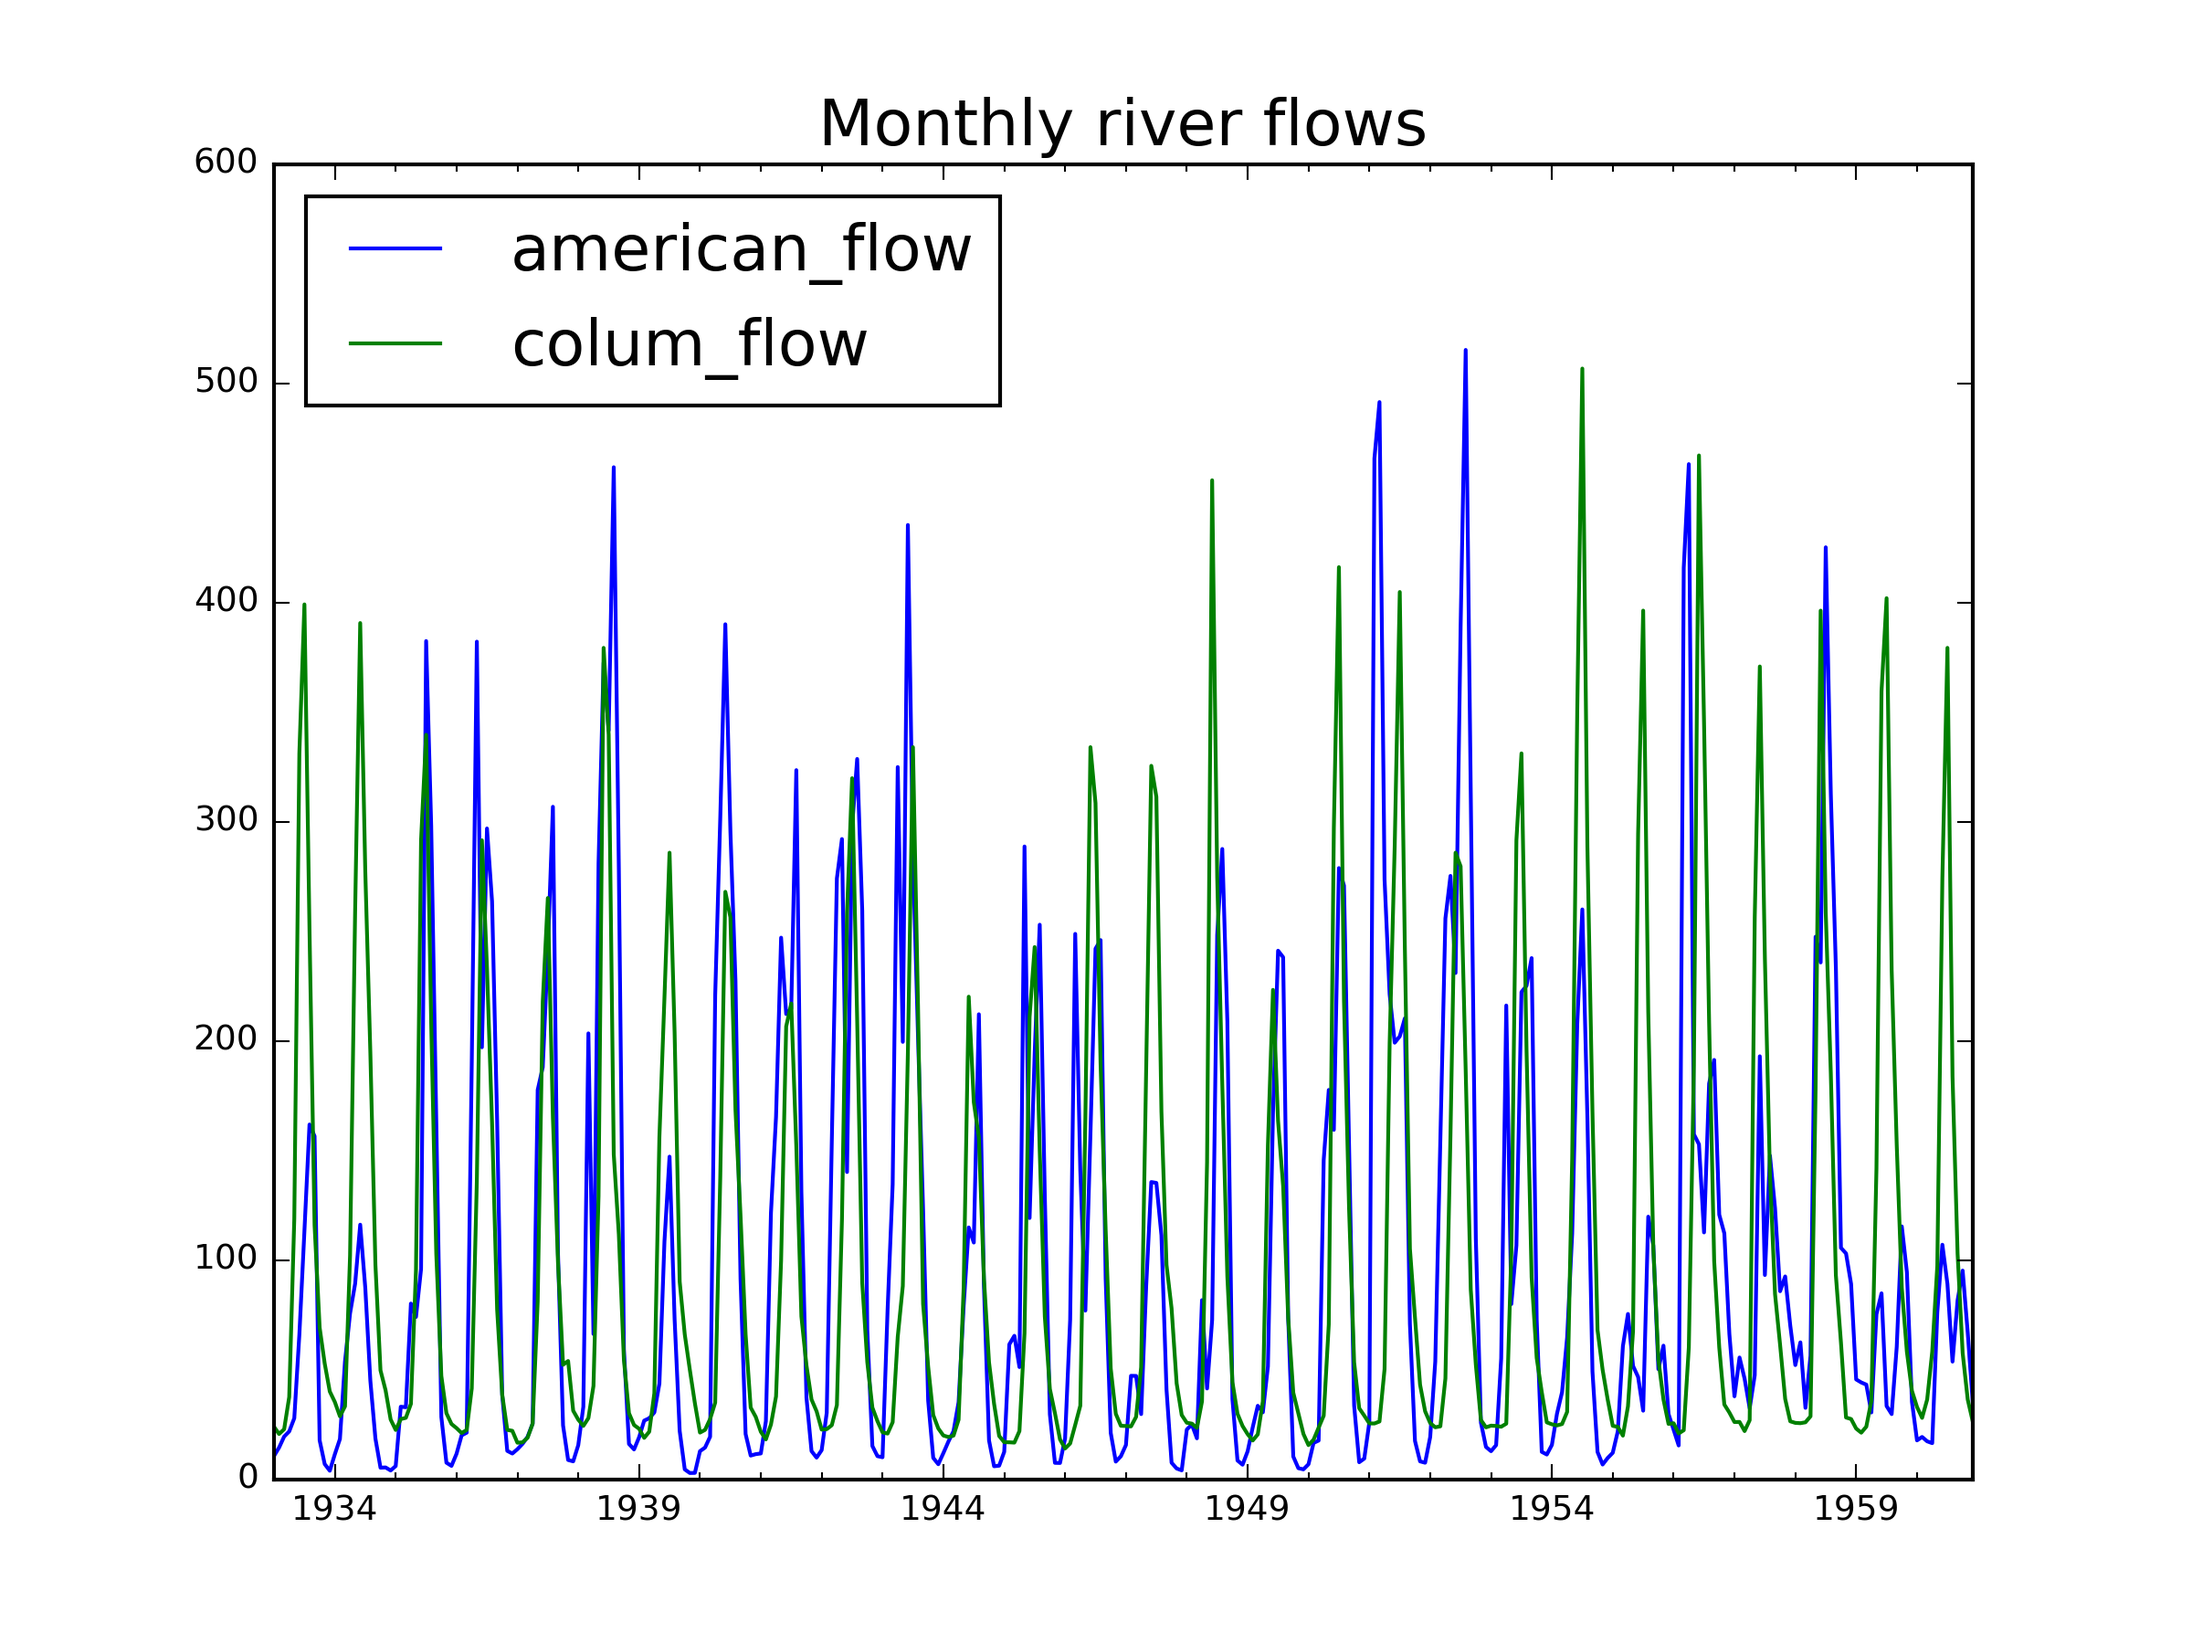
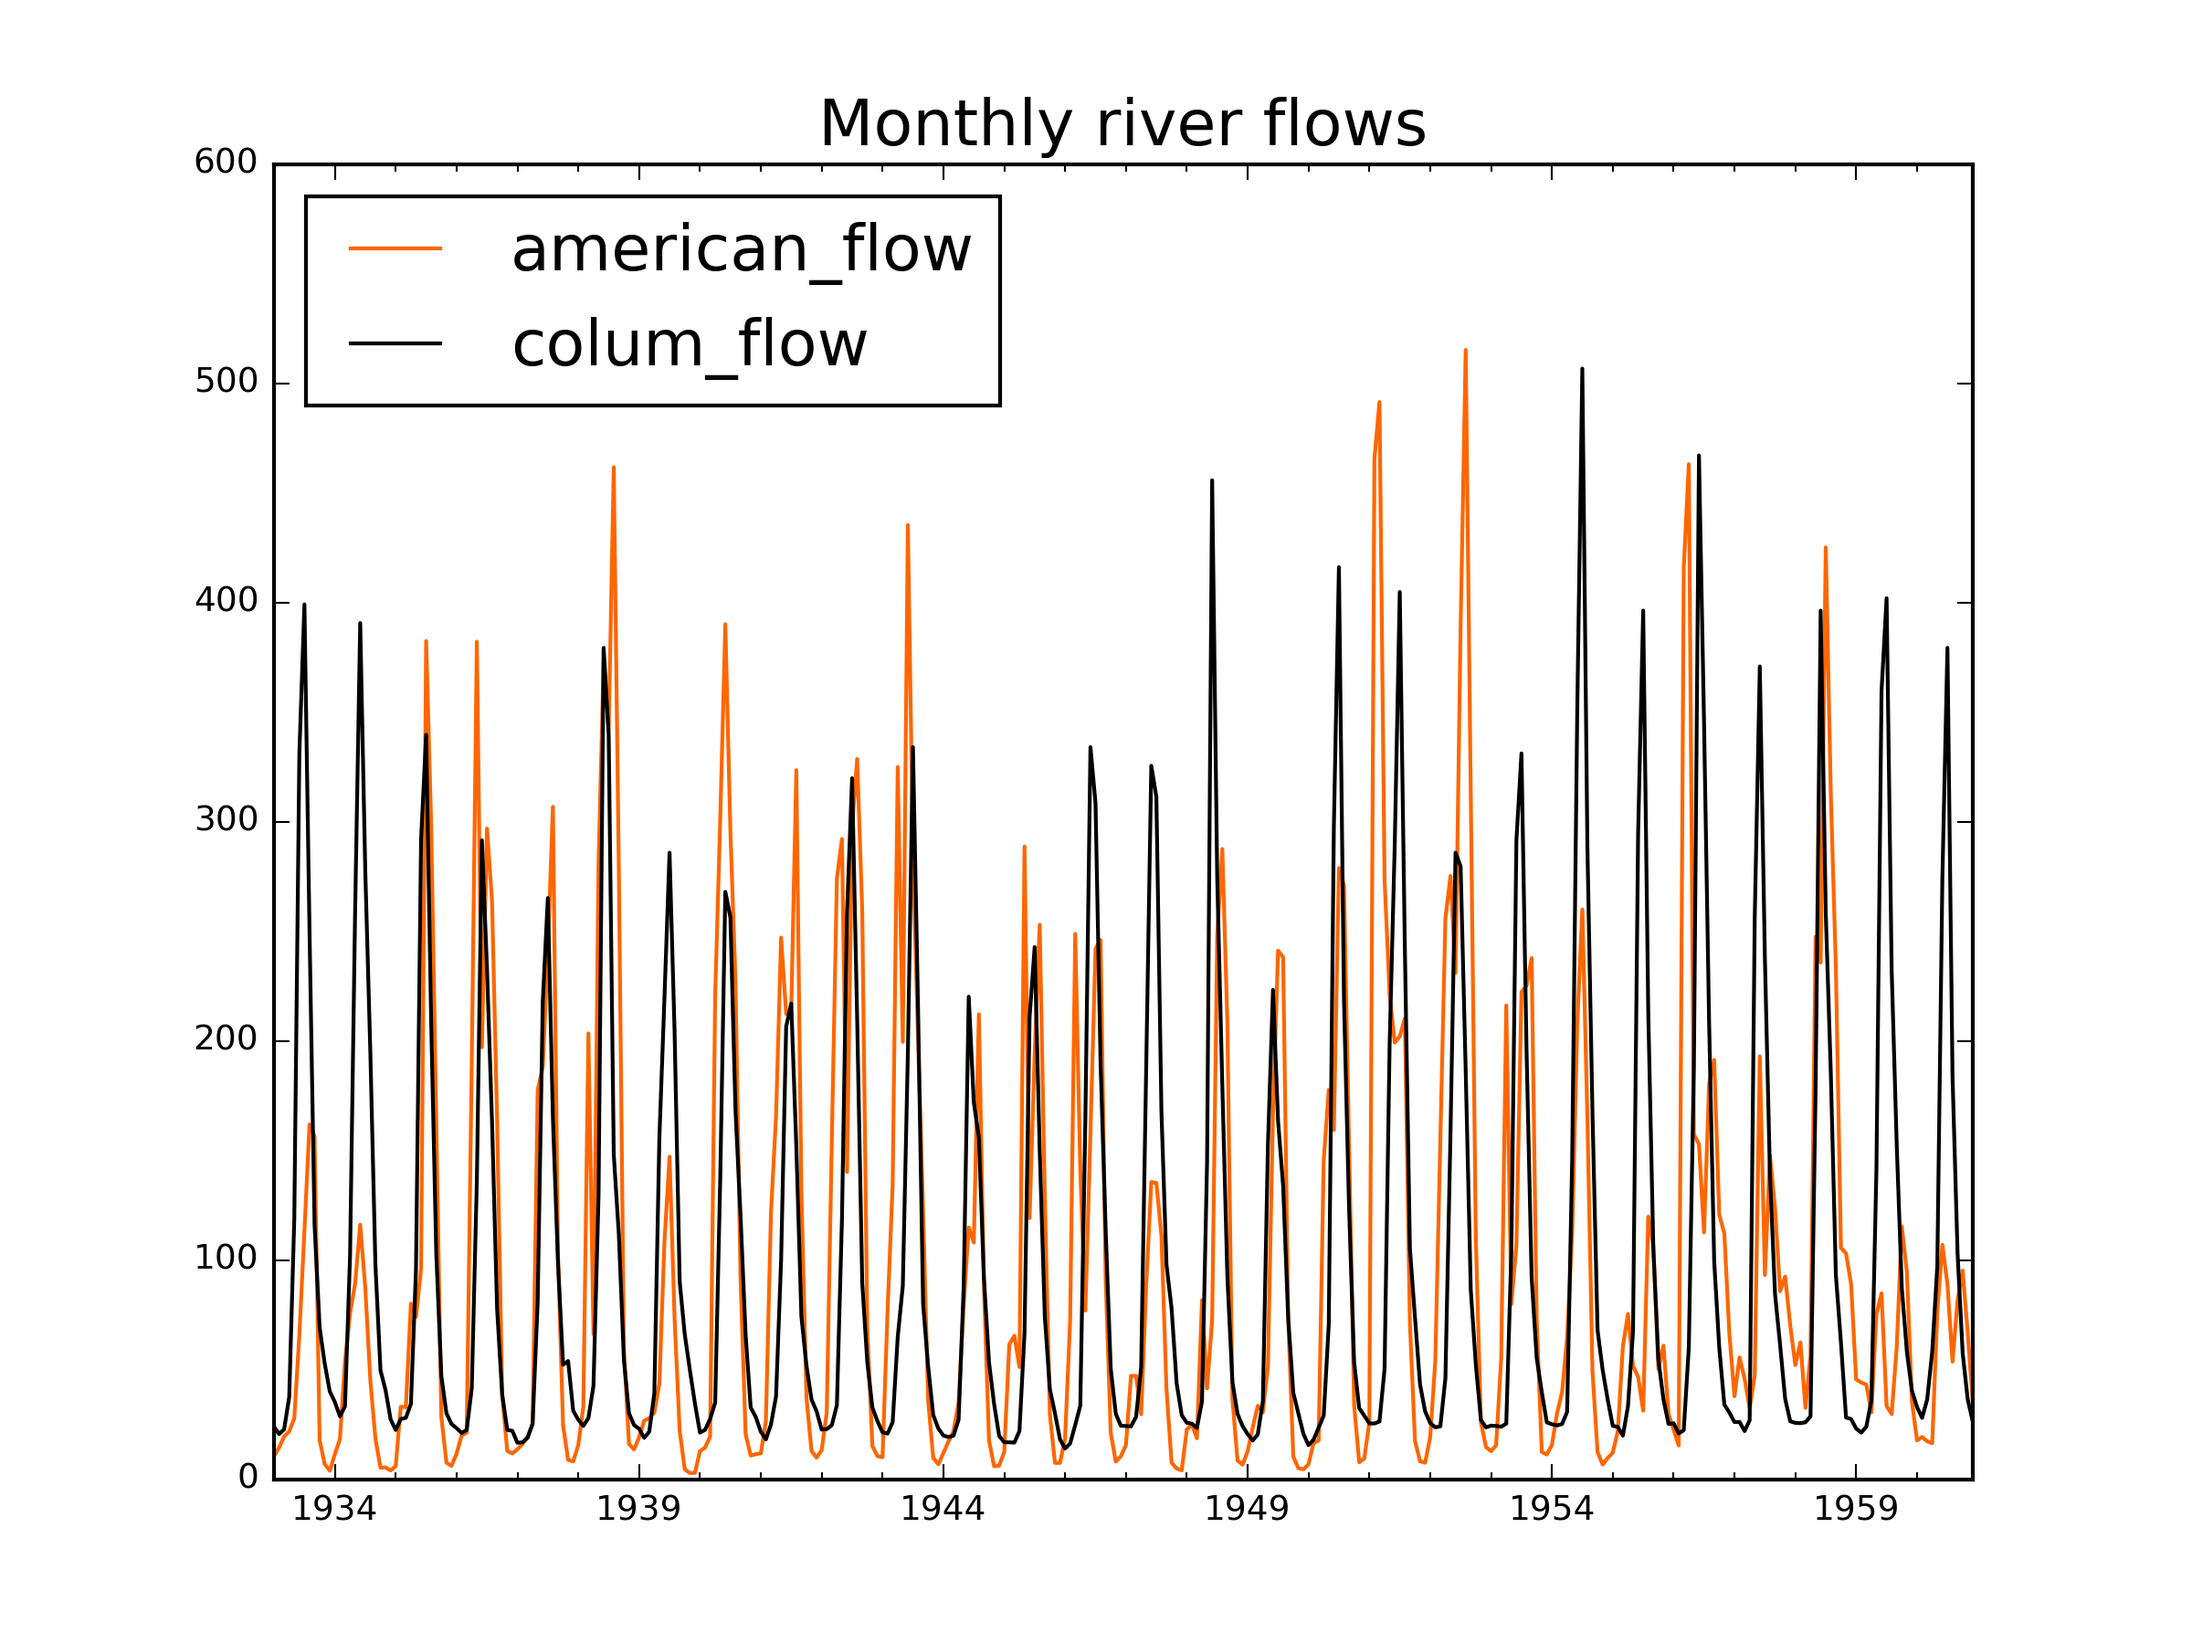
Altering the color scheme

Changed region(s): [[0.125, 0.2489, 0.9062, 0.9022]]

diff --git a/Codes/Chapter7/ts_handlingData.py b/Codes/Chapter7/ts_handlingData.py
@@ -15,6 +15,9 @@ files=['american.csv', 'colum.csv']
 # folder with data
 data_folder = '../../Data/Chapter7/'
 
+# colors 
+colors = ['#FF6600', '#000000', '#29407C', '#660000']
+
 # read the data
 american = pd.read_csv(data_folder + files[0], 
     index_col=0, parse_dates=[0], 
@@ -79,13 +82,13 @@ print(year.head(2))
 
 # plot time series
 # monthly time series
-riverFlows.plot(title='Monthly river flows')
+riverFlows.plot(title='Monthly river flows', color=colors)
 plt.savefig(data_folder + '/charts/monthly_riverFlows.png',
     dpi=300)
 plt.close()
 
 # quarterly time series
-quarter.plot(title='Quarterly river flows')
+quarter.plot(title='Quarterly river flows', color=colors)
 plt.savefig(data_folder + '/charts/quarterly_riverFlows.png',
     dpi=300)
 plt.close()
